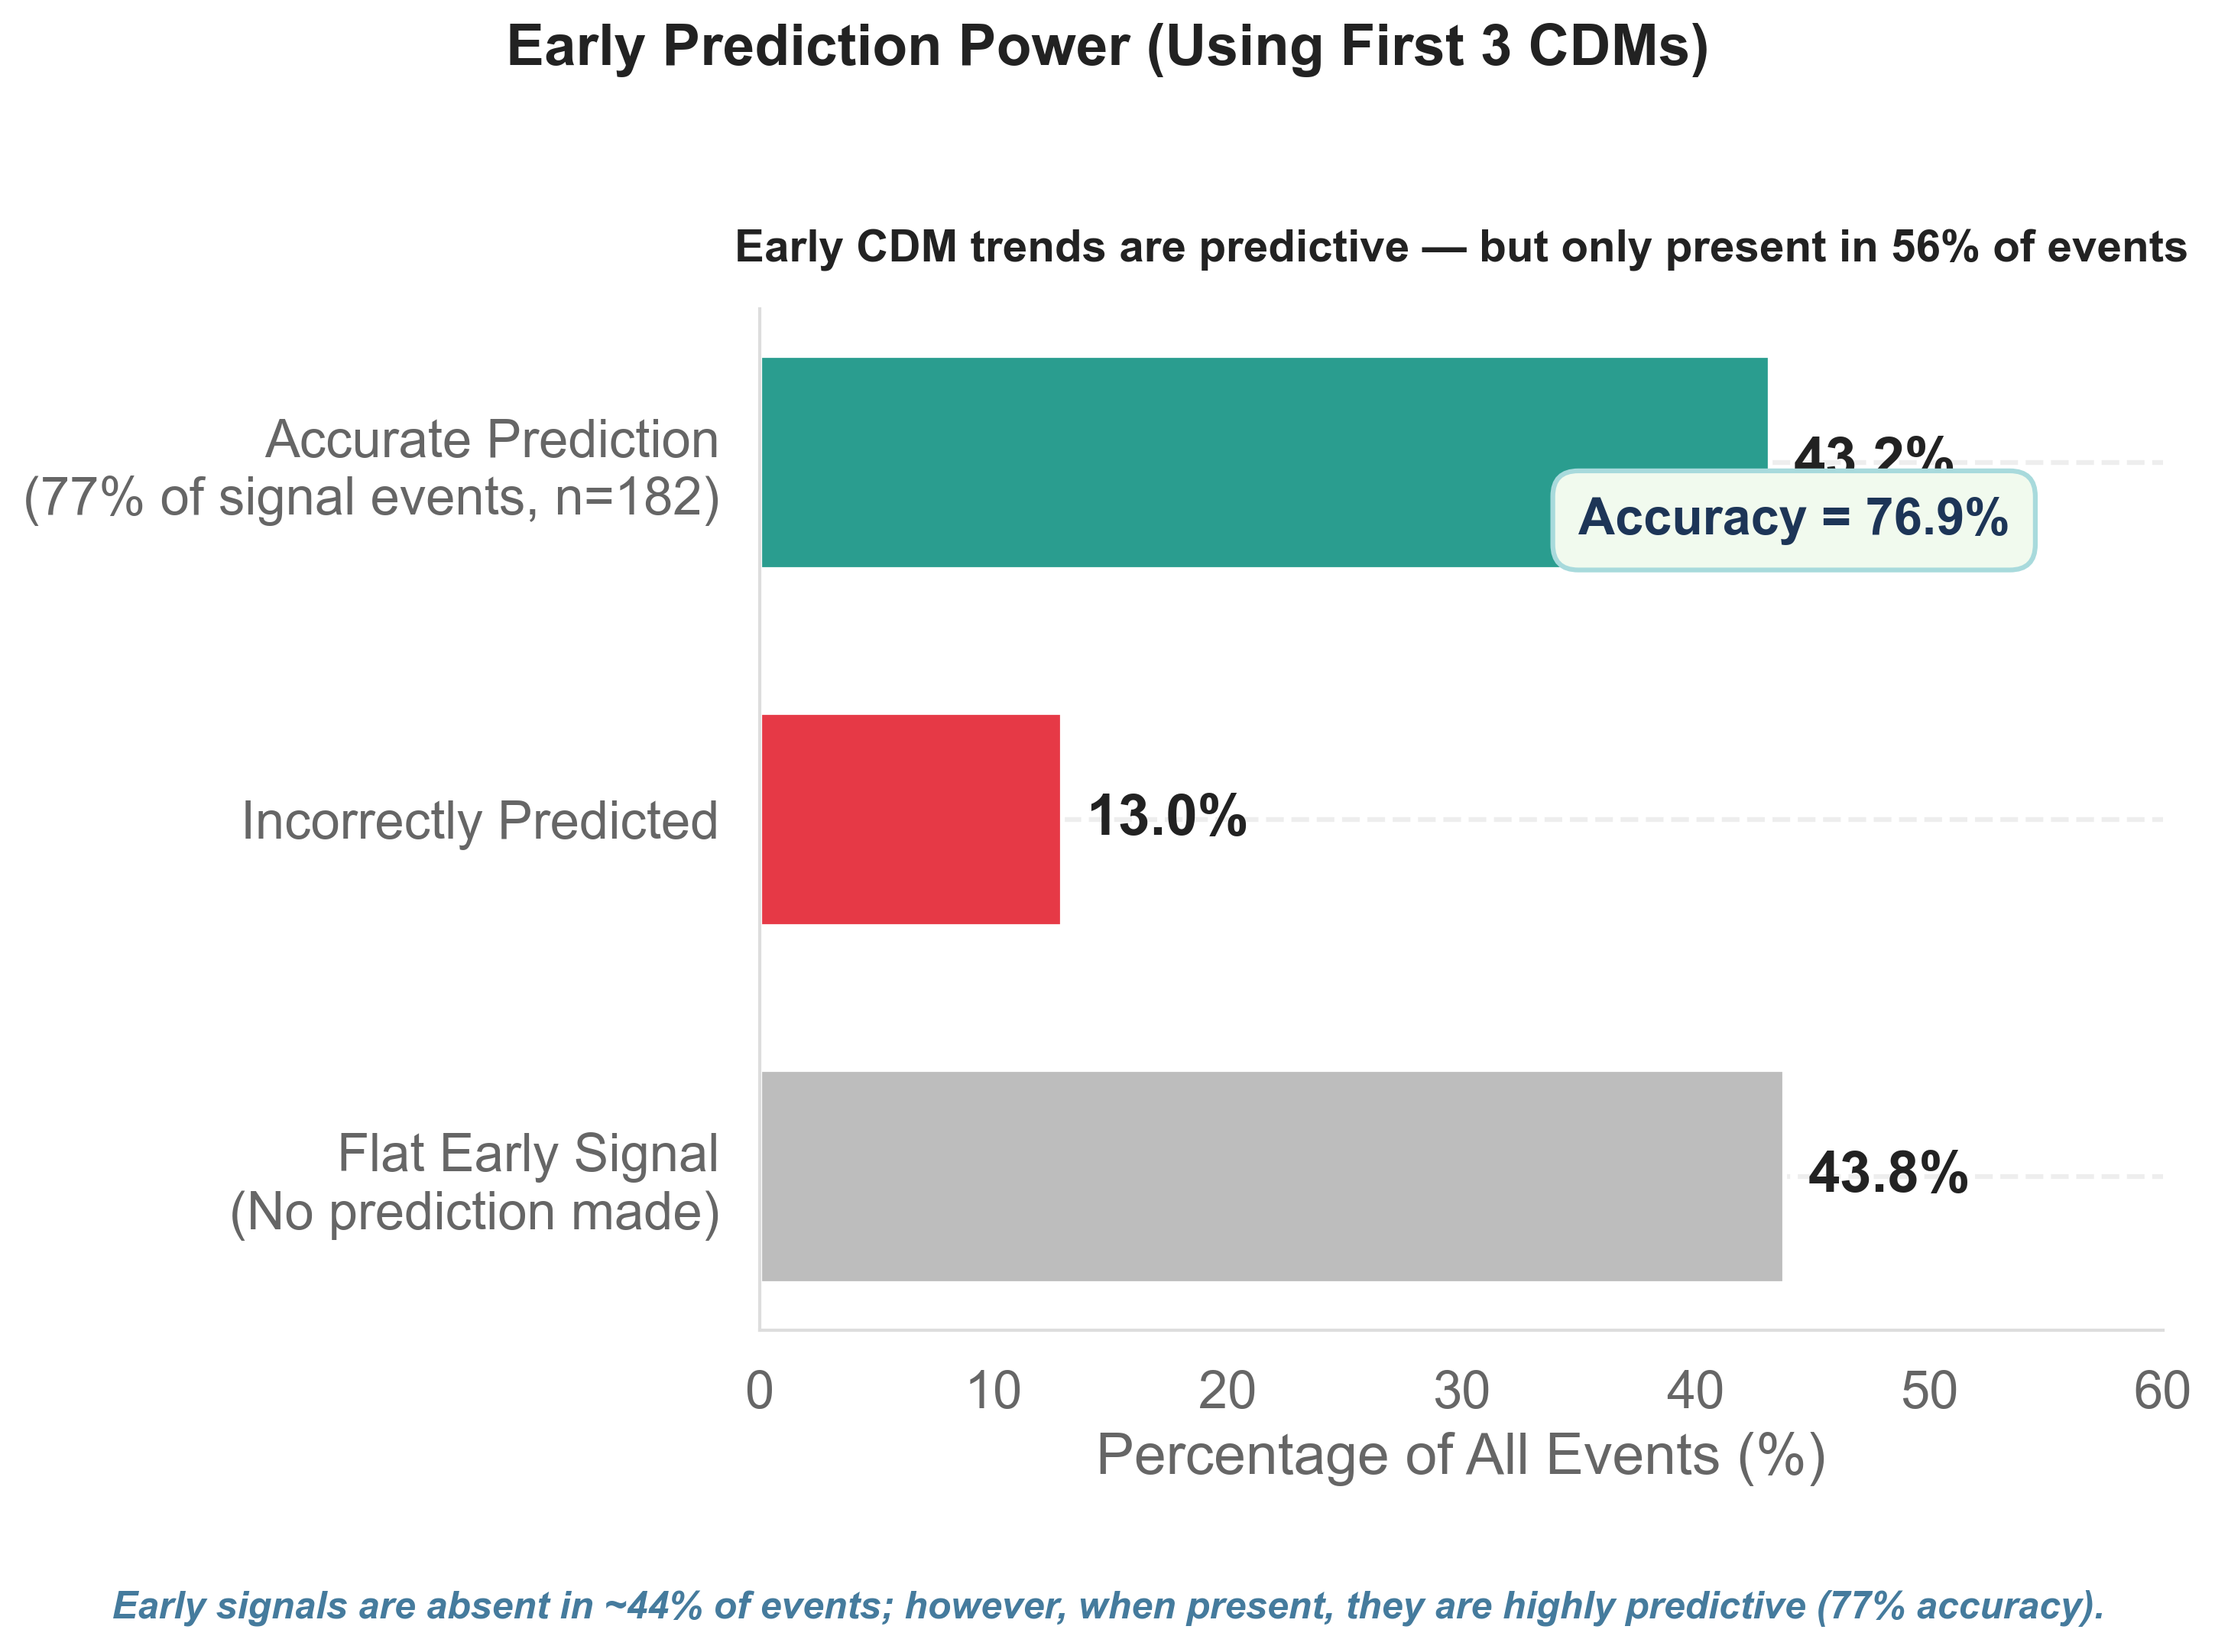
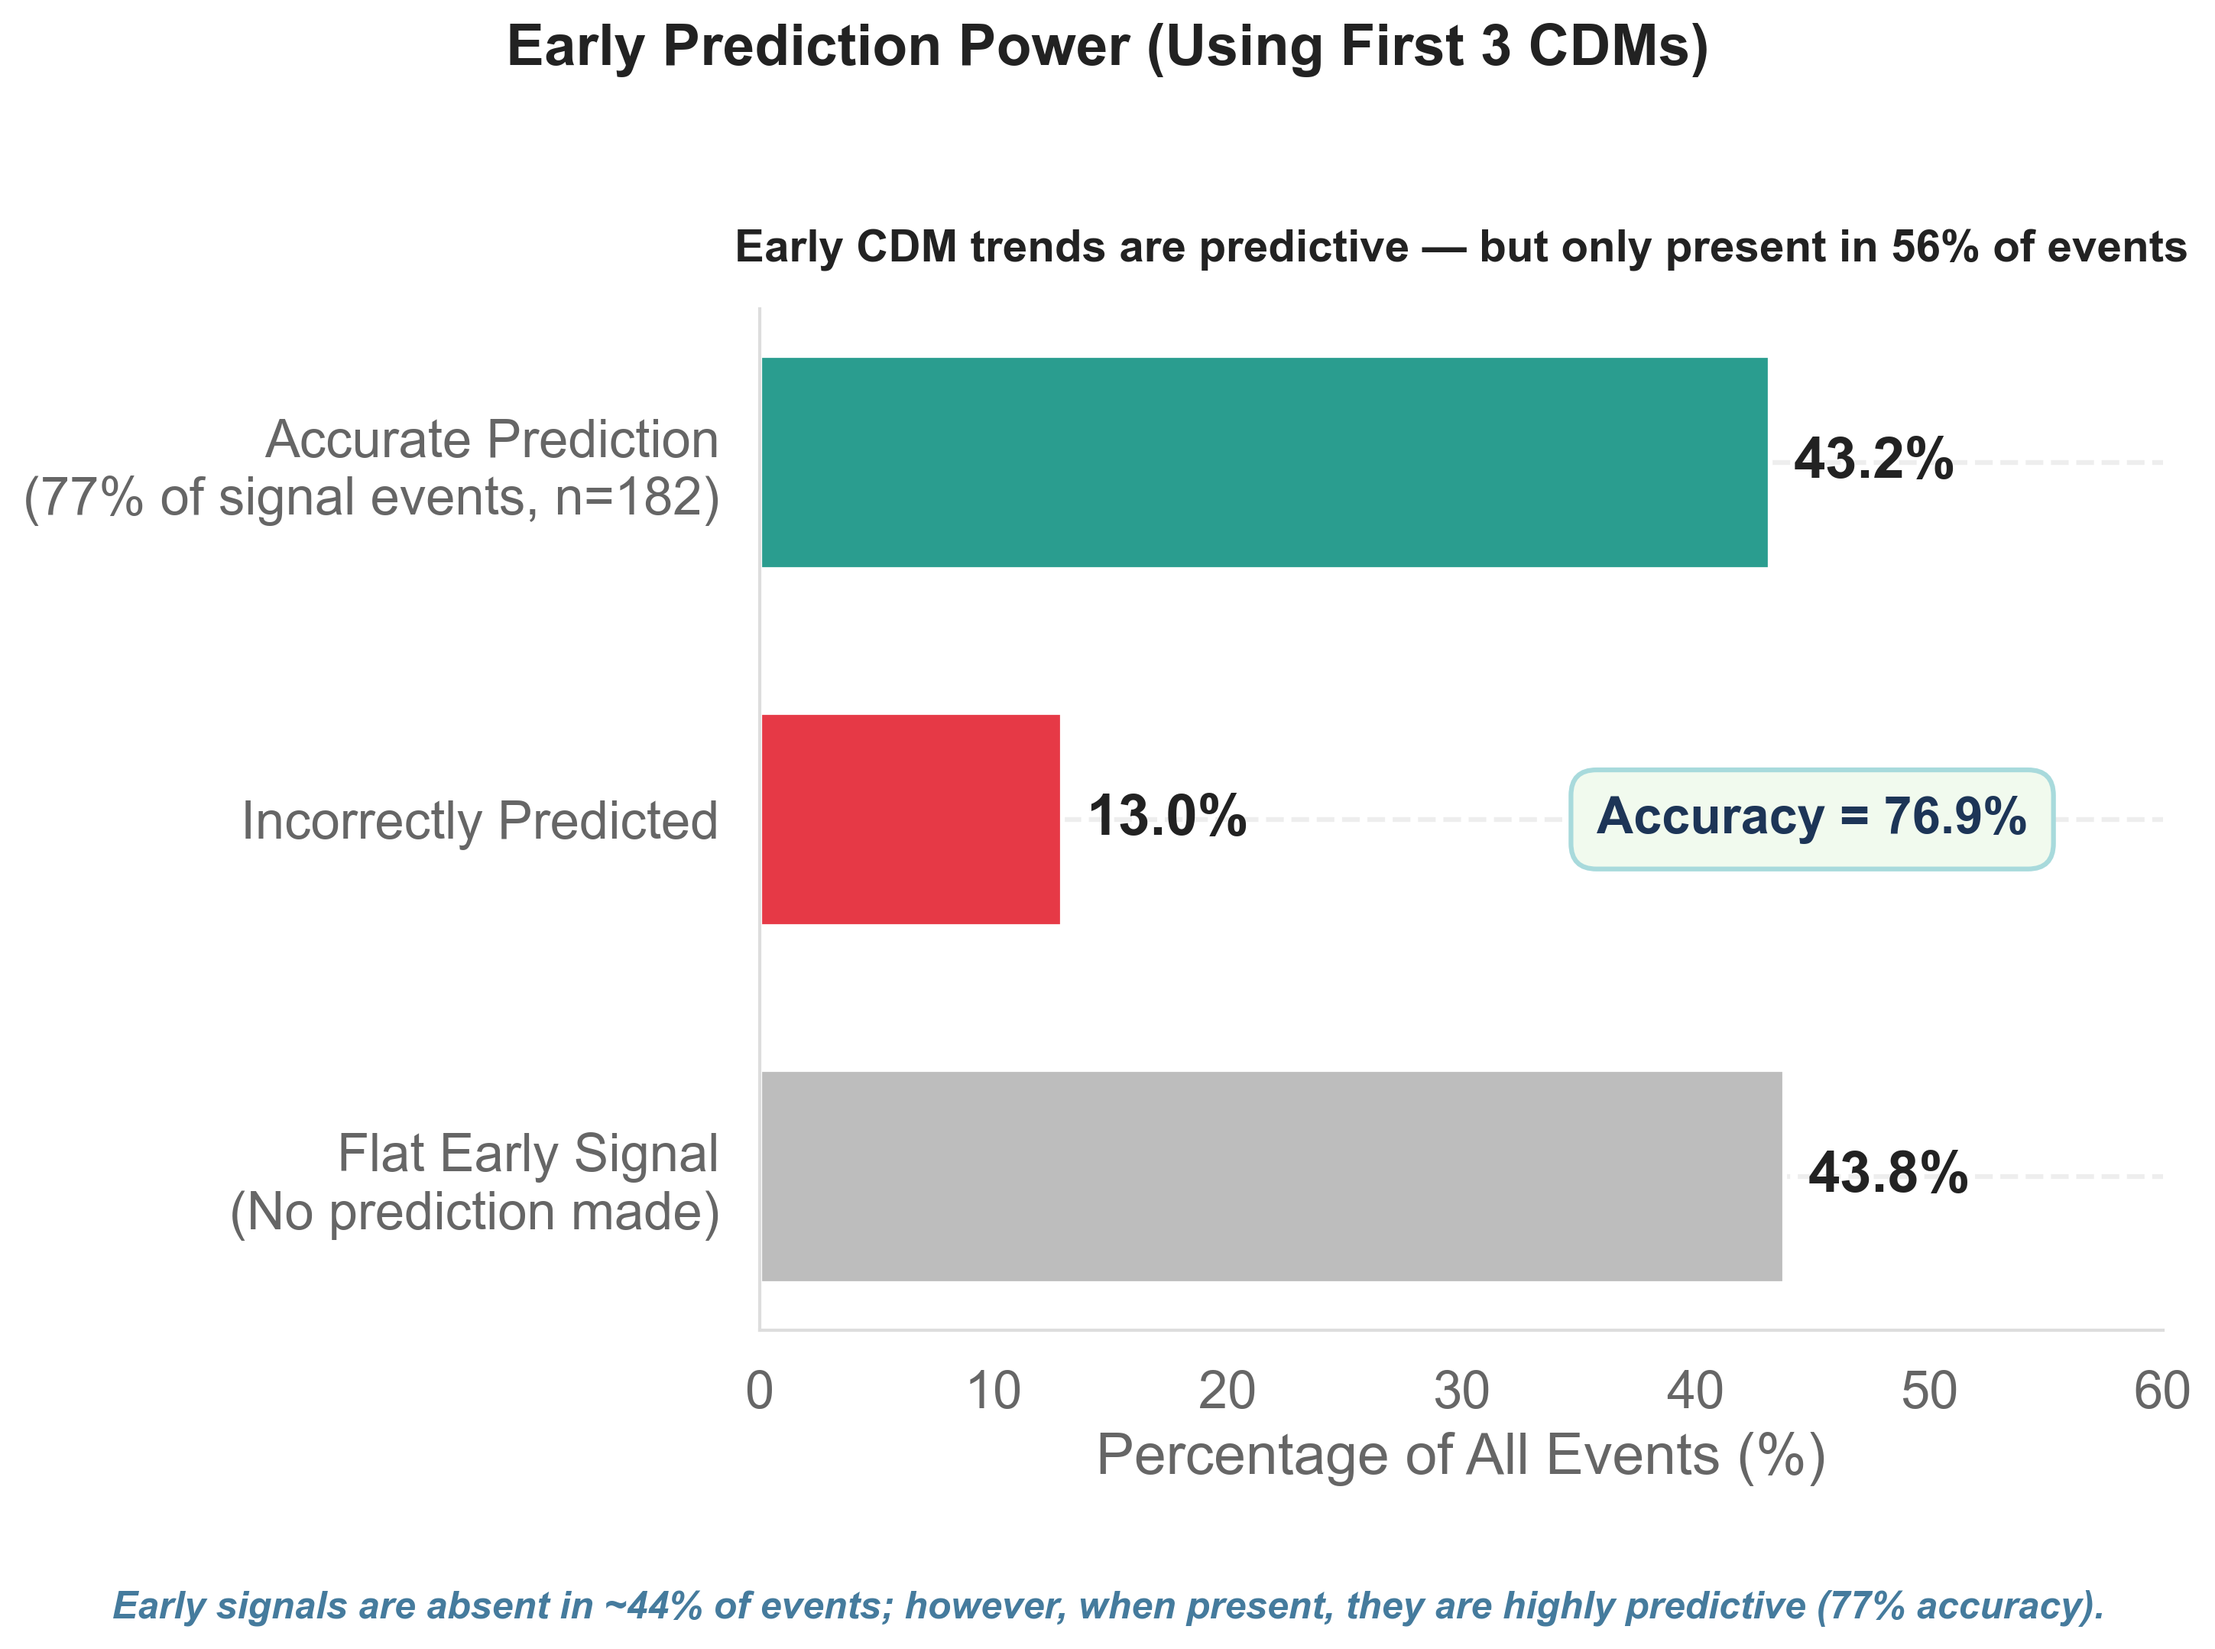
char4 visual bug

Changed region(s): [[0.6832, 0.2796, 0.9317, 0.3727], [0.7143, 0.4659, 0.9317, 0.528]]

diff --git a/visualize_maturation.py b/visualize_maturation.py
@@ -190,8 +190,9 @@ def plot_4_prediction(results):
         width = bar.get_width()
         plt.text(width + 1, bar.get_y() + bar.get_height()/2, f"{width:.1f}%", ha='left', va='center', weight="bold")
         
-    plt.text(35, 1.8, f"Accuracy = {acc:.1f}%", 
+    plt.text(45, 1.0, f"Accuracy = {acc:.1f}%", 
              fontsize=16, weight="bold", color="#1D3557",
+             ha='center', va='center',
              bbox=dict(facecolor='#F1FAEE', edgecolor='#A8DADC', boxstyle='round,pad=0.5'))
              
     plt.figtext(0.5, -0.05, "Early signals are absent in ~44% of events; however, when present, they are highly predictive (77% accuracy).", 
